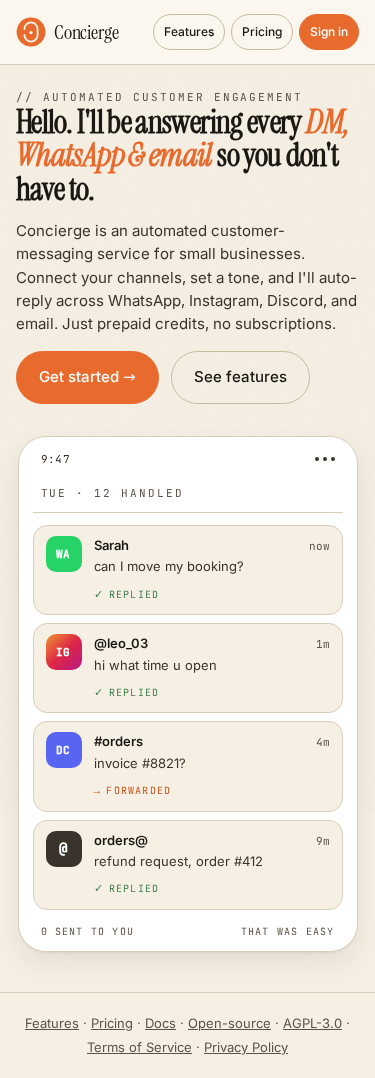
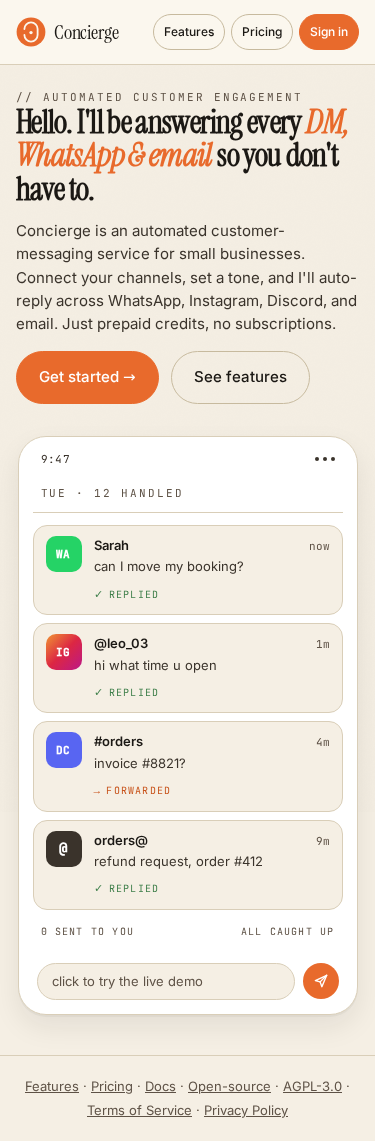
welcome: add a "compose" CTA at the bottom of the phone
Without the bouncing hint pill, the only visible affordance into the
live demo was the hover state on the hero headline — fine for AT
users (who still get aria-describedby) but invisible to sighted ones
on first paint. The phone illustration is the natural place: every
messaging app ends with a "type here" input bar, so dropping one at
the bottom of the frame reads as part of the picture rather than a
banner glued on.

The row is a real <button> with the same @click="open = true" used
by the headline. Hover/focus brightens the fake input and deepens
the send disc; reduced-motion respected. The headline stays
clickable as a redundant affordance — both paths land on the same
modal. Same row works on mobile without any breakpoint-specific
code; the input pill + 36px send dot is a comfortably large tap
target.

A11y: the aside used to be aria-hidden="true" wholesale. With an
interactive button inside, that's wrong, so the aria-hidden is now
conditional (still hidden when the operator disables the demo and
the compose row isn't rendered). The decorative inner pieces
(status bar, header, notification list, footer) carry their own
aria-hidden so AT only surfaces the compose button's
aria-label="click to try the live demo".

diff --git a/src/templates/onboarding.rs b/src/templates/onboarding.rs
@@ -203,12 +203,14 @@ pub fn welcome_html(
     let chat_cta_body = html_escape(&t(locale, "demo-chat-cta-body"));
     let chat_cta_button = html_escape(&t(locale, "demo-chat-cta-button"));
 
-    // The hero headline is a click target into the demo modal when the
-    // demo is enabled. When the operator has disabled the demo, drop
-    // the click handlers, the `hero-clickable` class (which carries the
-    // hover effect), and the screen-reader hint span.
+    // Two affordances open the demo modal when it's enabled: the hero
+    // headline (a quiet, redundant click target) and a "compose" row at
+    // the bottom of the phone illustration (the primary, visible CTA).
+    // When the operator has disabled the demo, both lose their click
+    // handlers, the aside becomes pure illustration again, and the
+    // screen-reader hint span is dropped.
     let initial_headline = &variants[0];
-    let (hero_headline, hero_hint) = if demo_enabled {
+    let (hero_headline, hero_hint, aside_aria, compose_row) = if demo_enabled {
         (
             format!(
                 r#"<h1 class="display hero-clickable" id="hero-headline"
@@ -219,9 +221,30 @@ pub fn welcome_html(
                 headline = initial_headline,
             ),
             // Screen-reader-only hint: keeps the aria-describedby target
-            // alive for AT users even though the visible pill is gone.
+            // on the headline alive for AT users. The compose button
+            // below carries the visible cue for sighted users.
             format!(
                 r#"<span id="demo-chat-hint-text" class="sr-only">{chat_hint}</span>"#,
+                chat_hint = chat_hint,
+            ),
+            // Aside is interactive now (contains the compose button),
+            // so it can't be aria-hidden as a whole. The decorative
+            // notifications/status-bar/footer carry their own
+            // aria-hidden so AT only surfaces the compose button.
+            "",
+            format!(
+                r#"<button type="button" class="phone-compose" aria-label="{chat_hint}"
+          @click="open = true">
+        <span class="phone-compose-input" aria-hidden="true">{chat_hint}</span>
+        <span class="phone-compose-send" aria-hidden="true">
+          <svg width="14" height="14" viewBox="0 0 16 16" fill="none"
+               stroke="currentColor" stroke-width="1.6"
+               stroke-linecap="round" stroke-linejoin="round">
+            <path d="M14.5 1.5 L1.5 7.5 L7 9 L9 14.5 Z"/>
+            <path d="M14.5 1.5 L7 9"/>
+          </svg>
+        </span>
+      </button>"#,
                 chat_hint = chat_hint,
             ),
         )
@@ -231,6 +254,9 @@ pub fn welcome_html(
                 r#"<h1 class="display" id="hero-headline">{headline}<span class="hero-caret" aria-hidden="true"></span></h1>"#,
                 headline = initial_headline,
             ),
+            String::new(),
+            // Demo disabled: aside is illustration-only, hide it from AT.
+            r#" aria-hidden="true""#,
             String::new(),
         )
     };
@@ -265,18 +291,18 @@ pub fn welcome_html(
       <a href="/features" class="btn ghost lg">{cta_secondary}</a>
     </div>
   </div>
-  <aside class="hero-phone" aria-hidden="true">
+  <aside class="hero-phone"{aside_aria}>
     <div class="phone-frame">
-      <div class="phone-bar">
+      <div class="phone-bar" aria-hidden="true">
         <span>9:47</span>
         <span class="phone-bar-dots"><i></i><i></i><i></i></span>
       </div>
-      <div class="phone-header">
+      <div class="phone-header" aria-hidden="true">
         <span class="eyebrow">Tue &middot; 12 handled</span>
       </div>
-      <ul class="phone-feed">
+      <ul class="phone-feed" aria-hidden="true">
         <li class="phone-notif">
-          <span class="phone-channel ch-wa" aria-hidden="true">WA</span>
+          <span class="phone-channel ch-wa">WA</span>
           <div>
             <div class="phone-meta"><b>Sarah</b><span>now</span></div>
             <p class="phone-msg">can I move my booking?</p>
@@ -284,7 +310,7 @@ pub fn welcome_html(
           </div>
         </li>
         <li class="phone-notif">
-          <span class="phone-channel ch-ig" aria-hidden="true">IG</span>
+          <span class="phone-channel ch-ig">IG</span>
           <div>
             <div class="phone-meta"><b>@leo_03</b><span>1m</span></div>
             <p class="phone-msg">hi what time u open</p>
@@ -292,7 +318,7 @@ pub fn welcome_html(
           </div>
         </li>
         <li class="phone-notif">
-          <span class="phone-channel ch-dc" aria-hidden="true">DC</span>
+          <span class="phone-channel ch-dc">DC</span>
           <div>
             <div class="phone-meta"><b>#orders</b><span>4m</span></div>
             <p class="phone-msg">invoice #8821?</p>
@@ -300,7 +326,7 @@ pub fn welcome_html(
           </div>
         </li>
         <li class="phone-notif">
-          <span class="phone-channel ch-em" aria-hidden="true">@</span>
+          <span class="phone-channel ch-em">@</span>
           <div>
             <div class="phone-meta"><b>orders@</b><span>9m</span></div>
             <p class="phone-msg">refund request, order {hash}412</p>
@@ -308,10 +334,11 @@ pub fn welcome_html(
           </div>
         </li>
       </ul>
-      <div class="phone-foot">
+      <div class="phone-foot" aria-hidden="true">
         <span>0 sent to you</span>
         <span>All caught up</span>
       </div>
+      {compose_row}
     </div>
   </aside>
 </section>
@@ -428,6 +455,8 @@ pub fn welcome_html(
         eyebrow = t(locale, "welcome-eyebrow"),
         hero_headline = hero_headline,
         hero_hint = hero_hint,
+        aside_aria = aside_aria,
+        compose_row = compose_row,
         preloaded_personas_block = preloaded_personas_block,
         lead = t(locale, "welcome-lead"),
         cta_primary = t(locale, "welcome-cta-primary"),

diff --git a/src/templates/base.rs b/src/templates/base.rs
@@ -710,6 +710,40 @@ table tr.audit-detail > td { padding:0; background:var(--paper);
 .phone-foot { display:flex; justify-content:space-between;
   padding:2px 8px 0; font-family:var(--f-mono); font-size:10px;
   letter-spacing:.12em; text-transform:uppercase; color:var(--muted); }
+/* Fake "compose" row at the bottom of the phone: a real <button>
+   styled to look like a messaging app's input bar + send icon. The
+   whole row opens the demo modal — it's the primary visible CTA into
+   the demo (the hero headline carries a quiet, redundant click target
+   for sighted users; AT users get the headline's aria-describedby and
+   this button's aria-label). */
+.phone-compose { display:flex; align-items:center; gap:8px;
+  width:100%; margin-top:6px; padding:6px 4px 2px;
+  background:transparent; border:0; cursor:pointer;
+  font-family:inherit; color:inherit;
+  border-radius:14px; outline:none;
+  transition:background .2s ease; }
+.phone-compose-input { flex:1; min-width:0; padding:9px 14px;
+  background:var(--cream); border:1px solid var(--hair);
+  border-radius:999px; color:var(--muted); font-size:13px;
+  text-align:left; line-height:1.3;
+  white-space:nowrap; overflow:hidden; text-overflow:ellipsis;
+  transition:border-color .2s ease, color .2s ease, background .2s ease; }
+.phone-compose-send { flex:none; width:36px; height:36px;
+  border-radius:50%; background:var(--accent); color:#fff;
+  display:flex; align-items:center; justify-content:center;
+  transition:background .2s ease, transform .2s ease; }
+.phone-compose:hover .phone-compose-input,
+.phone-compose:focus-visible .phone-compose-input {
+  background:#fff; border-color:var(--accent); color:var(--ink); }
+.phone-compose:hover .phone-compose-send,
+.phone-compose:focus-visible .phone-compose-send {
+  background:var(--accent-2); transform:scale(1.06); }
+.phone-compose:focus-visible {
+  outline:2px solid var(--accent); outline-offset:3px; }
+@media (prefers-reduced-motion: reduce) {
+  .phone-compose:hover .phone-compose-send,
+  .phone-compose:focus-visible .phone-compose-send { transform:none; }
+}
 
 /* Terminal */
 .terminal { background:#0F0D0B; color:#D9D0BD; border-radius:16px; padding:20px;
